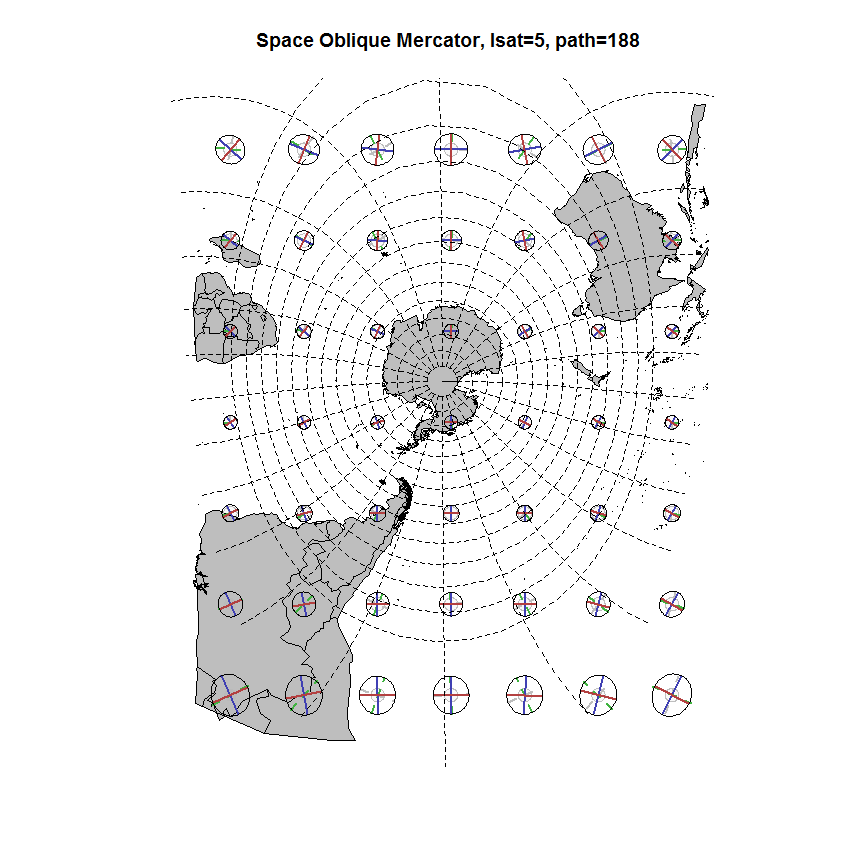
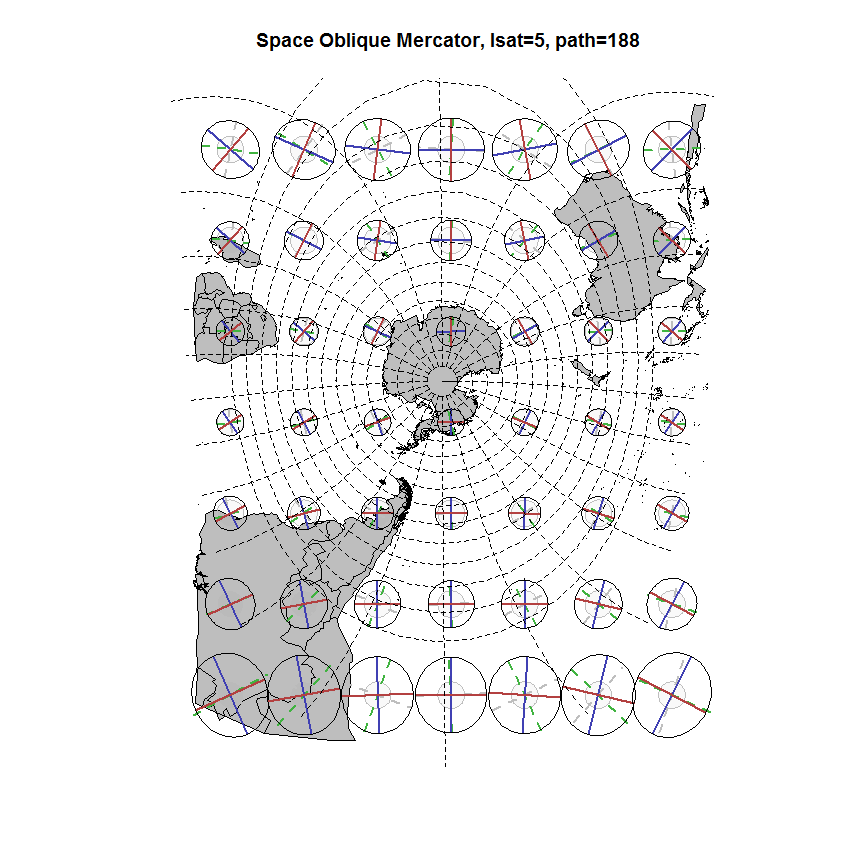
change scale for SOM in readme

diff --git a/README.md b/README.md
@@ -193,7 +193,7 @@ w7 <- sp(tab  %>% group_by(branch_)  %>% summarize(n = n())  %>% filter(n > 2) %
 #> Joining by: "branch_"
 library(graticule)
 g <- graticule(seq(-180, 165, by = 15), seq(-85, -20, by = 5), proj = target7, xlim = c(-180, 180), ylim = c(-85, -5))
-buildandplot(w7, main = "Space Oblique Mercator, lsat=5, path=188 ", col = "grey", scale = 2.5e5)
+buildandplot(w7, main = "Space Oblique Mercator, lsat=5, path=188 ", col = "grey", scale = 5e5)
 plot(g, add = TRUE, lty = 2)
 ```
 
